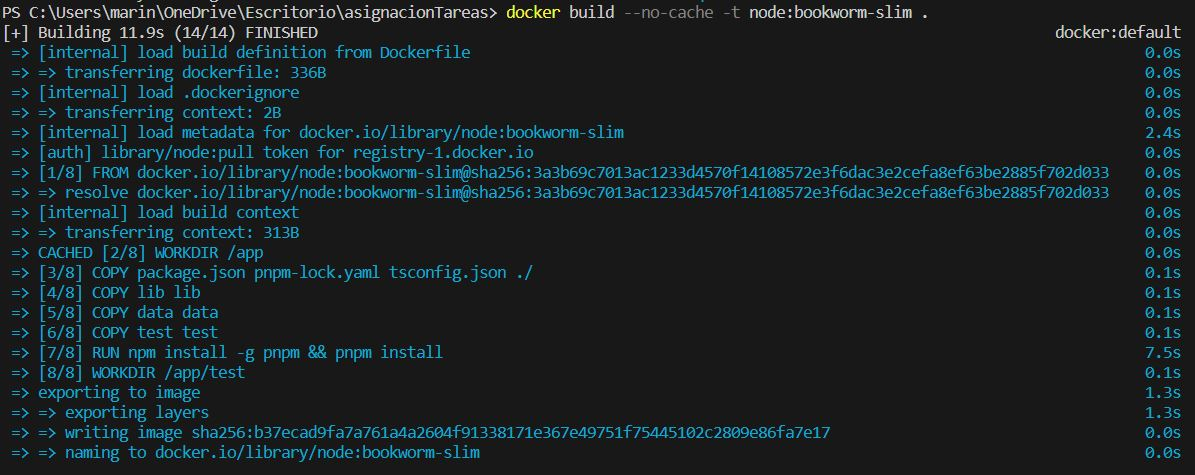
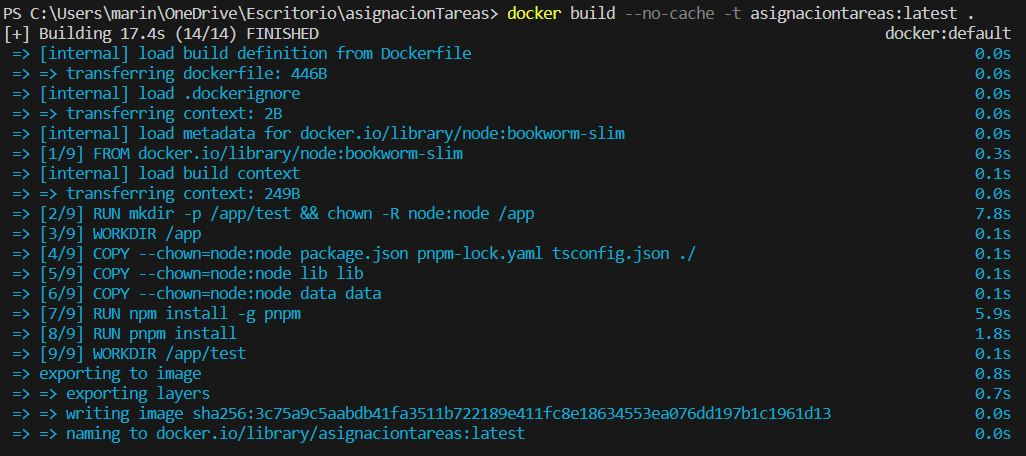
Corregido Dockerfile, fixes #32
Se usa el usuario por defecto Node, se le conceden los permisos necesarios a los ficheros y se evita hacer nada en el entrypoint /app/test

Changed region(s): [[0.0, 0.0, 0.9981, 0.9825]]

diff --git a/README.md b/README.md
@@ -54,7 +54,7 @@ Para ejecutar el contenedor, se utiliza la orden:
 docker run -u 1001 -t -v `pwd`:/app/test marinajcs163/asignaciontareas
 ```
 
-Se puede descargar la imagen subida en Docker Hub ([marinajcs163/asignaciontareas](https://hub.docker.com/repository/docker/marinajcs163/asignaciontareas/tags?page=1&ordering=last_updated)), mediante la siguiente orden:
+Se puede descargar la imagen subida en Docker Hub ([marinajcs163/asignaciontareas](https://hub.docker.com/repository/docker/marinajcs163/asignaciontareas/general)), mediante la siguiente orden:
 
 ```bash
 docker pull marinajcs163/asignaciontareas:latest
